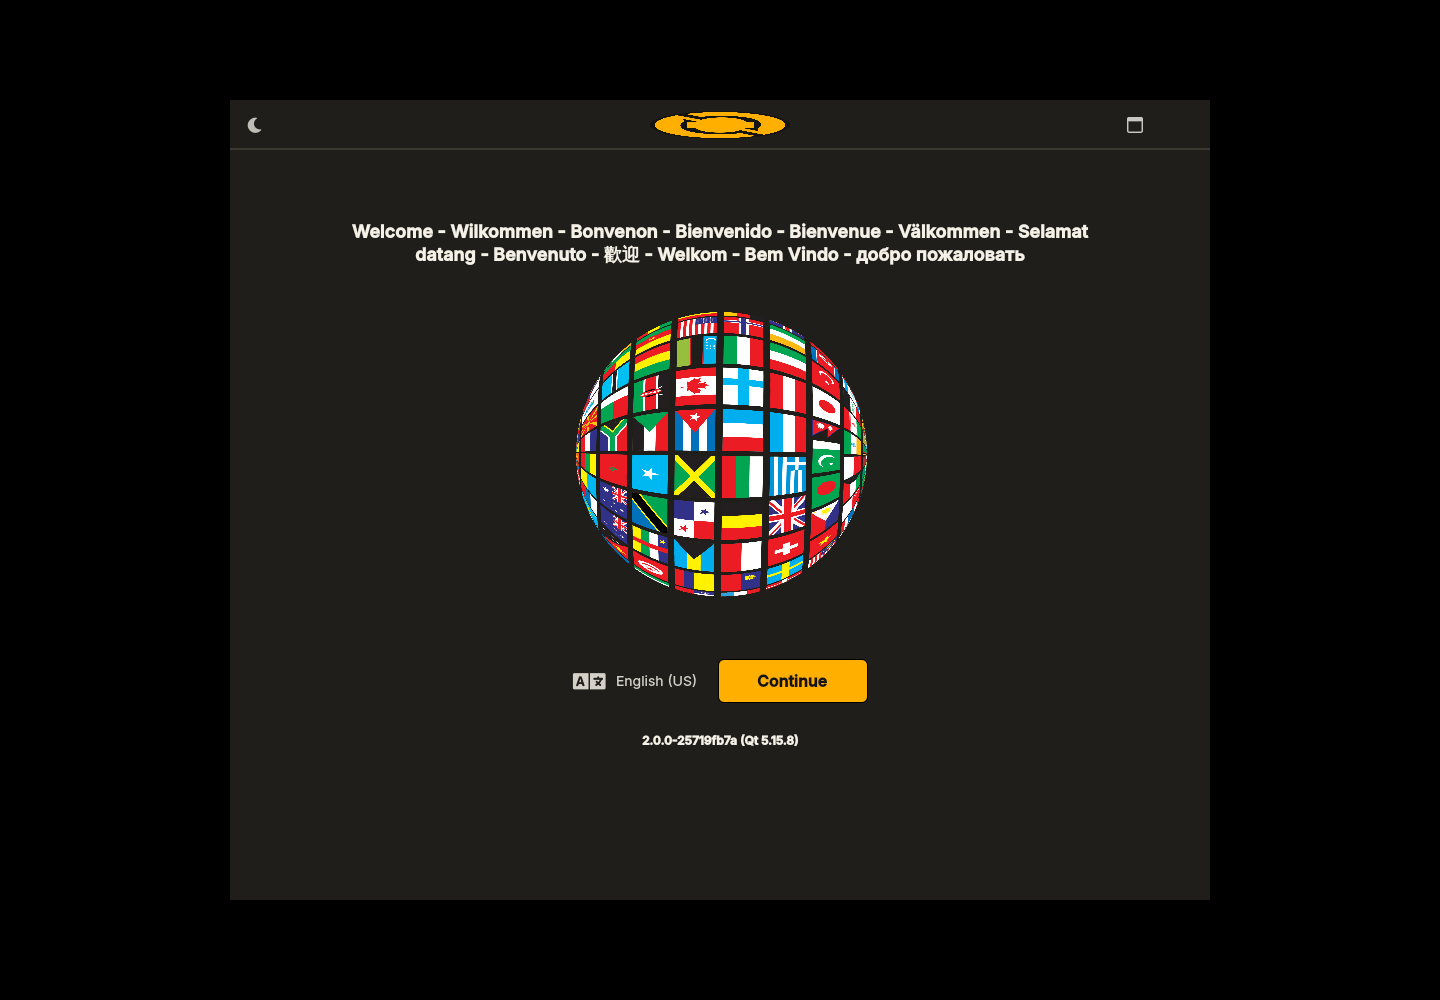
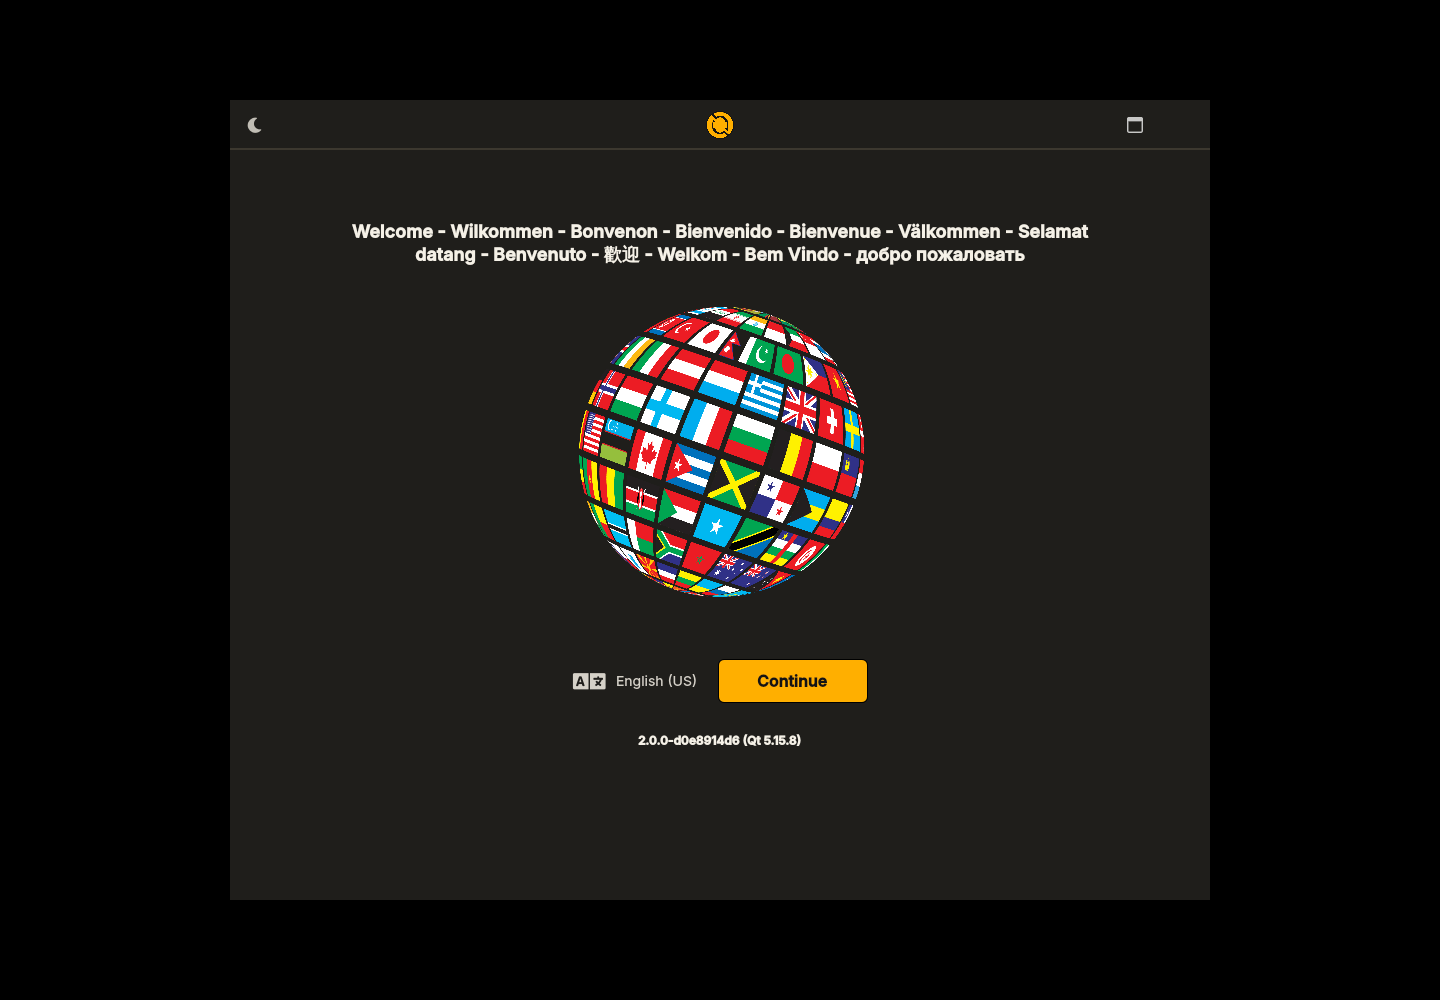
fix: preserve titlebar brand mark aspect ratio

Changed region(s): [[0.375, 0.31, 0.625, 0.62], [0.4375, 0.093, 0.5625, 0.155], [0.4375, 0.713, 0.5625, 0.744]]

diff --git a/components/Style.qml b/components/Style.qml
@@ -159,7 +159,7 @@ QtObject {
     property string _b_titleBarBackgroundGradientStart: "#1F1E1B"
     property string _b_titleBarBackgroundGradientStop: "#1F1E1B"
     property string _b_titleBarBackgroundBorderColor: "#3C382F"
-    property string _b_titleBarLogoSource: "qrc:/images/brand/qwertycoin-wordmark-light.svg"
+    property string _b_titleBarLogoSource: "qrc:/images/brand/qwertycoin-mark.svg"
     property string _b_titleBarMinimizeSource: "qrc:/images/minimize.svg"
     property string _b_titleBarFullscreenSource: "qrc:/images/fullscreen.svg"
     property string _b_titleBarCloseSource: "qrc:/images/close.svg"
@@ -217,7 +217,7 @@ QtObject {
     property string _w_titleBarBackgroundGradientStart: "#FFFDF7"
     property string _w_titleBarBackgroundGradientStop: "#FFFDF7"
     property string _w_titleBarBackgroundBorderColor: "#D9D1C4"
-    property string _w_titleBarLogoSource: "qrc:/images/brand/qwertycoin-wordmark-dark.svg"
+    property string _w_titleBarLogoSource: "qrc:/images/brand/qwertycoin-mark.svg"
     property string _w_titleBarMinimizeSource: "qrc:/images/themes/white/minimize.svg"
     property string _w_titleBarFullscreenSource: "qrc:/images/themes/white/fullscreen.svg"
     property string _w_titleBarCloseSource: "qrc:/images/themes/white/close.svg"

diff --git a/tests/qml/tst_Wizard.qml b/tests/qml/tst_Wizard.qml
@@ -172,12 +172,32 @@ Item {
         }
     }
 
+    Image {
+        id: titleBarLogoProbe
+        width: 190
+        height: 30
+        opacity: 0
+        source: MoneroComponents.Style.titleBarLogoSource
+        fillMode: Image.PreserveAspectFit
+    }
+
     TestCase {
         name: "Wizard"
         when: windowShown
 
         function test_bundled_brand_fonts_load() {
             tryCompare(MoneroComponents.Style, "fontsReady", true, 5000)
+        }
+
+        function test_titlebar_brand_mark_preserves_square_aspect_ratio() {
+            compare(MoneroComponents.Style._b_titleBarLogoSource,
+                    "qrc:/images/brand/qwertycoin-mark.svg")
+            compare(MoneroComponents.Style._w_titleBarLogoSource,
+                    "qrc:/images/brand/qwertycoin-mark.svg")
+            tryCompare(titleBarLogoProbe, "status", Image.Ready, 5000)
+            compare(titleBarLogoProbe.sourceSize.width, titleBarLogoProbe.sourceSize.height)
+            compare(Math.round(titleBarLogoProbe.paintedWidth), Math.round(titleBarLogoProbe.paintedHeight))
+            compare(Math.round(titleBarLogoProbe.paintedHeight), 30)
         }
 
         function walletPath(walletName) {

diff --git a/components/TitleBar.qml b/components/TitleBar.qml
@@ -259,7 +259,7 @@ Rectangle {
         Item {
             // make dummy space when hiding buttons when titlebar
             // state is 'essentials' in order for the
-            // monero logo to still be centered
+            // brand mark to remain centered
             Layout.preferredWidth: parent.height * 2  // amount of buttons we hide
             Layout.preferredHeight: parent.height
             visible: root.state == "essentials"

diff --git a/docs/GUI_REVIEW_EVIDENCE.md b/docs/GUI_REVIEW_EVIDENCE.md
@@ -69,8 +69,8 @@ the same configured build tree completed all 197 targets with `--parallel 1`.
 | Pinned Core EPoSe unit binary | 238/238 passed, 121.037 s |
 | GUI EPoSe adapter/producer integration tests | 8/8 passed |
 | CTest discovery | `qwertycoin-gui-epose-tests` discovered and passed 1/1 |
-| QML functional suite | 14/14 passed, including bundled FontLoader status |
-| QML scale-factor matrix | 14/14 at 100%, 125%, 150% and 200% |
+| QML functional suite | 15/15 passed, including bundled FontLoader status and square title-bar logo rendering |
+| QML scale-factor matrix | 15/15 at 100%, 125%, 150% and 200% |
 | Updated German catalog | 968/968 meaningful messages translated; one intentional empty spacer |
 | Offline fixed-seed restore smoke | Passed twice with the same public test address |
 | Isolated create/send regtest | Two new wallets; 1 QWC sent, confirmed and recipient balance verified |
